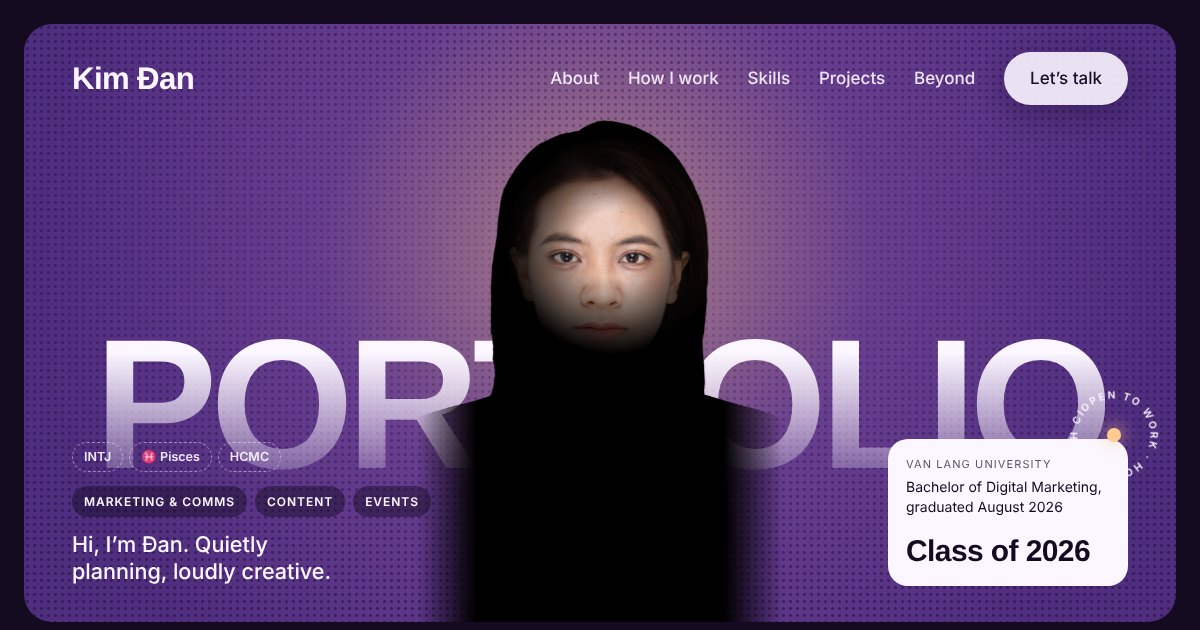
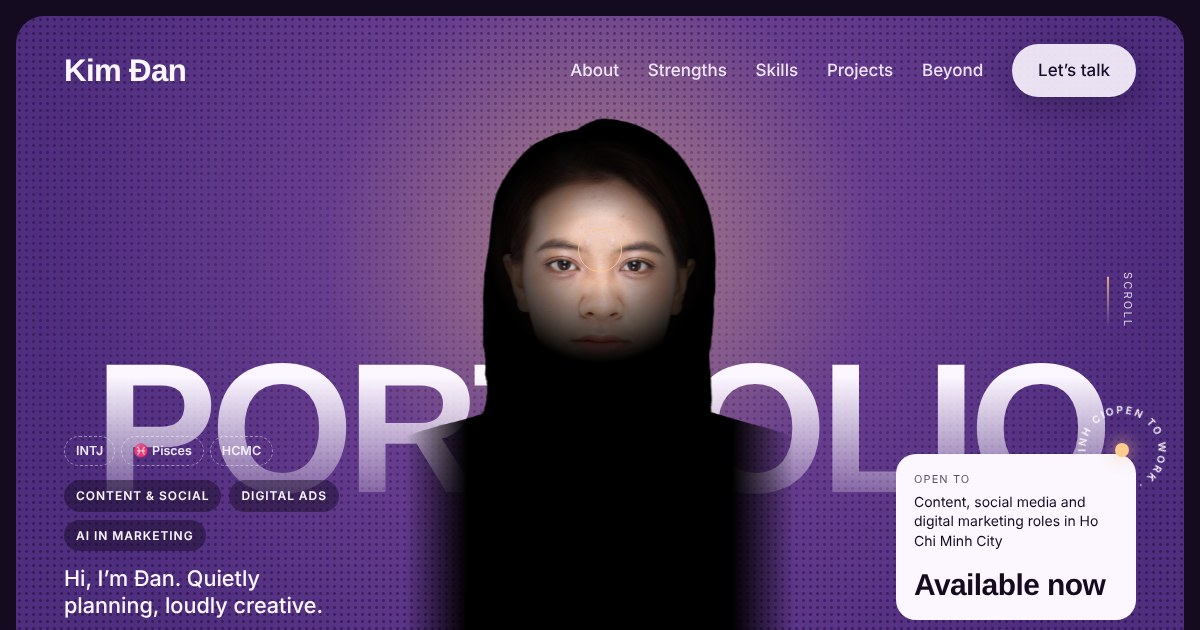
Update /profile: general version for content, ads and AI roles
Claude-Session: https://claude.ai/code/session_01XvTncx3YC7odFgyffXU3xD

Changed region(s): [[0.0, 0.0, 0.9867, 1.0], [0.4625, 0.181, 0.555, 0.2413], [0.4317, 0.2111, 0.4625, 0.2413]]

diff --git a/profile.html b/profile.html
@@ -3,11 +3,11 @@
 <head>
 <meta charset="utf-8">
 <meta name="viewport" content="width=device-width, initial-scale=1, viewport-fit=cover">
-<meta name="description" content="Võ Thị Kim Đan: marketing, content and events. Digital Marketing graduate, Van Lang University. Content, campaigns and events.">
+<meta name="description" content="Võ Thị Kim Đan: marketing, content and events. Digital Marketing graduate. Content, social media, paid ads and AI workflows.">
 <meta name="theme-color" content="#4f2d7f">
 <meta property="og:type" content="website">
-<meta property="og:title" content="Võ Thị Kim Đan · Marketing & Communication Portfolio">
-<meta property="og:description" content="Quietly planning, loudly creative. Content, campaigns and events from 003Lab, SIHUB, VNSIC and more.">
+<meta property="og:title" content="Võ Thị Kim Đan · Content & Digital Marketing Portfolio">
+<meta property="og:description" content="Quietly planning, loudly creative. Content, social, paid ads and AI workflows from 003Lab, Tứ Gia, SIHUB and more.">
 <meta property="og:image" content="https://kimdan-marcom.vercel.app/meta/og-profile.jpg">
 <meta property="og:url" content="https://kimdan-marcom.vercel.app/profile">
 <link rel="canonical" href="https://kimdan-marcom.vercel.app/profile">
@@ -15,7 +15,7 @@
 <link rel="icon" href="/meta/favicon.svg" type="image/svg+xml">
 <link rel="icon" href="/meta/favicon.ico" sizes="any">
 <style>:root{padding-top:env(safe-area-inset-top,0px);padding-bottom:env(safe-area-inset-bottom,0px)}body{margin:0}img{max-width:100%}[hidden]{display:none!important}</style>
-<title>Võ Thị Kim Đan · Marketing & Communication</title>
+<title>Võ Thị Kim Đan · Content & Digital Marketing</title>
 <link rel="preconnect" href="https://fonts.googleapis.com">
 <link rel="preconnect" href="https://fonts.gstatic.com" crossorigin>
 <link rel="stylesheet" href="https://fonts.googleapis.com/css2?family=Archivo:wdth,wght@100..125,500..900&family=Be+Vietnam+Pro:wght@400;500;600&display=swap">
@@ -473,7 +473,7 @@ body.locked .track,body.locked .badge svg,body.locked .scrollcue::after{animatio
       <a class="brand" href="#hero">Kim Đan</a>
       <div class="links">
         <a href="#about">About</a>
-        <a href="#fit">How I work</a>
+        <a href="#fit">Strengths</a>
         <a href="#skills">Skills</a>
         <a href="#work">Projects</a>
         <a href="#beyond">Beyond</a>
@@ -488,12 +488,12 @@ body.locked .track,body.locked .badge svg,body.locked .scrollcue::after{animatio
     <div class="foot">
       <div class="intro">
         <div class="me"><span class="mt" tabindex="0" data-tip="The Architect: plans first, then builds">INTJ</span><span class="mt" tabindex="0" data-tip="My star sign">♓ Pisces</span><span class="mt" tabindex="0" data-tip="Based in Ho Chi Minh City">HCMC</span></div>
-        <div class="chips"><span>Marketing &amp; Comms</span><span>Content</span><span>Events</span></div>
+        <div class="chips"><span>Content &amp; Social</span><span>Digital Ads</span><span>AI in Marketing</span></div>
         <p>Hi, I’m Đan. Quietly planning, loudly creative.</p>
       </div>
       <div class="card">
         <div class="badge" aria-hidden="true"><svg viewBox="0 0 100 100"><defs><path id="circ" d="M50,50 m-38,0 a38,38 0 1,1 76,0 a38,38 0 1,1 -76,0"/></defs><text><textPath href="#circ">Open to work · Ho Chi Minh City ·</textPath></text></svg></div>
-        <div><small>Van Lang University</small>Bachelor of Digital Marketing, graduated August 2026</div><b>Class of 2026</b>
+        <div><small>Open to</small>Content, social media and digital marketing roles in Ho Chi Minh City</div><b>Available now</b>
       </div>
     </div>
     <div class="scrollcue" aria-hidden="true">Scroll</div>
@@ -502,19 +502,20 @@ body.locked .track,body.locked .badge svg,body.locked .scrollcue::after{animatio
 
   <div class="marquee" aria-label="Skills">
     <div class="track">
-      <span>Content strategy</span><span>Event communications</span><span>Meta Ads</span><span>TikTok Ads</span><span>Short-form video</span><span>Copywriting</span><span>Canva</span><span>WordPress</span><span>AI workflows</span>
-      <span aria-hidden="true">Content strategy</span><span aria-hidden="true">Event communications</span><span aria-hidden="true">Meta Ads</span><span aria-hidden="true">TikTok Ads</span><span aria-hidden="true">Short-form video</span><span aria-hidden="true">Copywriting</span><span aria-hidden="true">Canva</span><span aria-hidden="true">WordPress</span><span aria-hidden="true">AI workflows</span>
+      <span>Content strategy</span><span>Copywriting</span><span>Social media</span><span>Short-form video</span><span>Meta Ads</span><span>TikTok Ads</span><span>Brand content</span><span>AI workflows</span><span>Performance reports</span><span>Canva</span><span>WordPress</span>
+      <span aria-hidden="true">Content strategy</span><span aria-hidden="true">Copywriting</span><span aria-hidden="true">Social media</span><span aria-hidden="true">Short-form video</span><span aria-hidden="true">Meta Ads</span><span aria-hidden="true">TikTok Ads</span><span aria-hidden="true">Brand content</span><span aria-hidden="true">AI workflows</span><span aria-hidden="true">Performance reports</span><span aria-hidden="true">Canva</span><span aria-hidden="true">WordPress</span>
     </div>
   </div>
 
   <main>
     <section id="about">
       <p class="eyebrow rv">About</p>
-      <p class="lightread" id="lightread">I just graduated in Digital Marketing from Van Lang University. Over the past two years I’ve looked after social channels for a beer importer, covered startup events at SIHUB and written for language apps in six countries. I enjoy work where writing, people and numbers meet, and I use AI so I can spend less time on busywork and more on the idea.</p>
+      <p class="lightread" id="lightread">I’m a Digital Marketing graduate from Van Lang University. I write content people stop for, run ads on Meta and TikTok, and use AI to take the busywork out of marketing. In two years I’ve helped language apps pass 1M monthly reach, looked after social and ads for an imported beer brand, and covered startup events at SIHUB.</p>
       <div class="stats" aria-label="Results">
         <div class="stat rv"><b data-count>1M+</b><span>monthly reach on 003Lab’s language apps</span></div>
-        <div class="stat rv" style="--d:.08s"><b data-count>3,000+</b><span>sign-ups for SIHUB’s startup exhibition</span></div>
-        <div class="stat rv" style="--d:.16s"><b data-count>8</b><span>newspapers covered the Nordic Perspectives Workshop</span></div>
+        <div class="stat rv" style="--d:.08s"><b data-count>400K+</b><span>people reached by Tứ Gia’s social and ad campaigns</span></div>
+        <div class="stat rv" style="--d:.16s"><b data-count>3,000+</b><span>sign-ups for SIHUB’s startup exhibition</span></div>
+        
         <div class="stat rv" style="--d:.24s"><b data-count>200+</b><span>students I taught to research with AI</span></div>
       </div>
     </section>
@@ -522,16 +523,16 @@ body.locked .track,body.locked .badge svg,body.locked .scrollcue::after{animatio
     <section id="fit">
       <div class="head">
         <div>
-          <p class="eyebrow rv">How I work</p>
-          <h2 class="split">Four things I bring to every team</h2>
+          <p class="eyebrow rv">Strengths</p>
+          <h2 class="split">What I do best</h2>
         </div>
-        <p class="rv" style="--d:.16s">Collaboration, agility, respect and excellence, in my own words.</p>
+        <p class="rv" style="--d:.16s">Four things I’m strongest at, each with real work behind it.</p>
       </div>
       <div class="care rv" id="care">
-        <button class="cv on" type="button" aria-expanded="true"><span class="L" aria-hidden="true">C</span><span class="ct"><b>Collaboration</b><span>My best work has always come from a team. I ask questions early, share drafts before they’re perfect and make sure everyone works from the same brief.</span></span></button>
-        <button class="cv" type="button" aria-expanded="false"><span class="L" aria-hidden="true">A</span><span class="ct"><b>Agility</b><span>Almost every project I’ve had started with something new: a new tool, a new market, or a brief that changed halfway. I learn fast, adjust quickly and keep the work moving.</span></span></button>
-        <button class="cv" type="button" aria-expanded="false"><span class="L" aria-hidden="true">R</span><span class="ct"><b>Respect</b><span>I listen before I talk, whether it’s a partner, a teammate or a customer comment. When I disagree, I say so clearly and kindly, then we look for the better answer together.</span></span></button>
-        <button class="cv" type="button" aria-expanded="false"><span class="L" aria-hidden="true">E</span><span class="ct"><b>Excellence</b><span>I care about the small things: a typo, a wrong date, a logo out of place. I check my work twice and keep asking how the next piece can be a little better.</span></span></button>
+        <button class="cv on" type="button" aria-expanded="true"><span class="L" aria-hidden="true">C</span><span class="ct"><b>Content &amp; social</b><span>I write for the feed, not for the brief. At 003Lab I tested new openings every day and kept what worked, and reach passed 1M a month across six countries.</span></span></button>
+        <button class="cv" type="button" aria-expanded="false"><span class="L" aria-hidden="true">D</span><span class="ct"><b>Digital ads</b><span>I’ve run Meta and TikTok ads on real budgets for Tứ Gia: setting up audiences, testing creatives and reporting the results to management every week.</span></span></button>
+        <button class="cv" type="button" aria-expanded="false"><span class="L" aria-hidden="true">B</span><span class="ct"><b>Brand</b><span>I worked with our designers on Tứ Gia’s logo and packaging, and kept one voice across Facebook, TikTok and the website.</span></span></button>
+        <button class="cv" type="button" aria-expanded="false"><span class="L" aria-hidden="true">AI</span><span class="ct"><b>AI workflows</b><span>I use Claude and ChatGPT to research markets, draft faster and build reports. I also designed a workshop that taught 200+ students to do the same.</span></span></button>
       </div>
       <div class="outside">
         <p class="eyebrow rv">Outside work</p>
@@ -618,7 +619,7 @@ body.locked .track,body.locked .badge svg,body.locked .scrollcue::after{animatio
       <div class="contact rv">
         <p class="eyebrow" style="margin:0">Contact</p>
         <h2>Let’s talk.</h2>
-        <p class="lead">I’m based in Ho Chi Minh City. Email is the fastest way to reach me.</p>
+        <p class="lead">I’m based in Ho Chi Minh City and can start now. Email is the fastest way to reach me.</p>
         <div class="row">
           <span class="mail" id="mail">kimdan040304@gmail.com</span>
           <button class="btn mag" id="copy" type="button">Copy email</button>
@@ -878,11 +879,11 @@ document.documentElement.classList.add('js');
 
   /* ---- skills: spotlit word wall ---- */
   const SK={hard:[
-    {n:'Planning',cap:'Monthly and quarterly plans for a beer brand, a startup hub and three language apps.',w:['Campaign planning','Content strategy','Creative ideas','Competitor research']},
+    {n:'Content & social',cap:'Over 1M monthly reach on Threads, plus Facebook, TikTok and a WordPress site.',w:['Copywriting','Short-form video','Facebook','TikTok','Threads','WordPress','Landing pages','Content calendars']},
     {n:'Paid ads',cap:'Real budgets on Meta and TikTok for Tứ Gia, tested and reported every week.',w:['Meta Ads','TikTok Ads','Targeting','A/B testing','Budget optimisation']},
-    {n:'Channels & content',cap:'Over 1M monthly reach on Threads, plus Facebook, TikTok and a WordPress site.',w:['Facebook','TikTok','Threads','WordPress','Landing pages','Copywriting','Short-form video','Event photo & video','Print design']},
-    {n:'Events & reporting',cap:'Around ten SIHUB events, VNSIC 2025 and Nordic Perspectives, from teaser to recap.',w:['Event communications','Launch campaigns','Weekly reports','Performance analysis']},
-    {n:'Tools',cap:'Canva and CapCut every day. Claude is the one I teach to others.',w:['Canva','CapCut','After Effects','Meta Ads Manager','Google Analytics','Google Sheets','Notion','Claude','ChatGPT','Gemini']}],
+    {n:'Brand & planning',cap:'Monthly and quarterly plans for a beer brand, a startup hub and three language apps.',w:['Content strategy','Campaign planning','Brand voice','Packaging & logo','Competitor research']},
+    {n:'AI & automation',cap:'I use Claude every day and teach it to others: research, drafts and reports.',w:['Claude','ChatGPT','Gemini','Prompt writing','AI market research','Report automation']},
+    {n:'Data & tools',cap:'Every post logged and measured. Canva and CapCut for daily design and video.',w:['Google Analytics','Meta Ads Manager','Google Sheets','Weekly reports','Canva','CapCut','After Effects','Notion']}],
    soft:[
     {n:'Communication',cap:'I taught an AI workshop to 200+ students and write in English every day.',w:['Presenting','Teaching','Writing in English']},
     {n:'Teamwork',cap:'I’ve worked with partners from Norway, Taiwan, Thailand and Singapore.',w:['Briefing a team','Working across cultures','Coordinating partners']},
